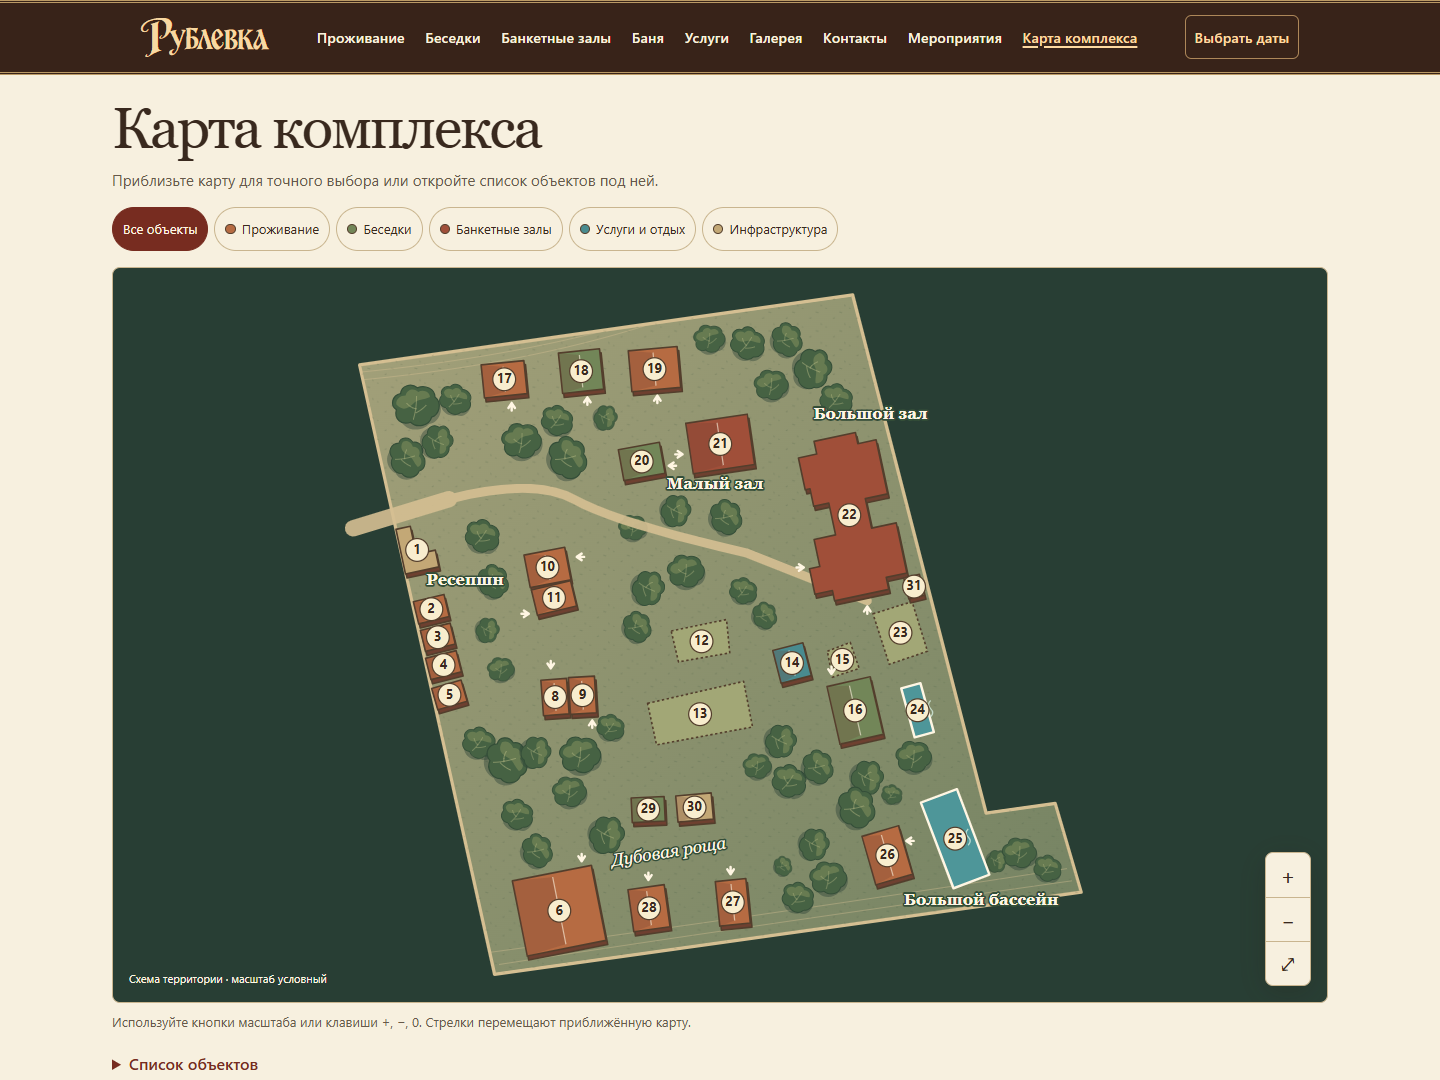
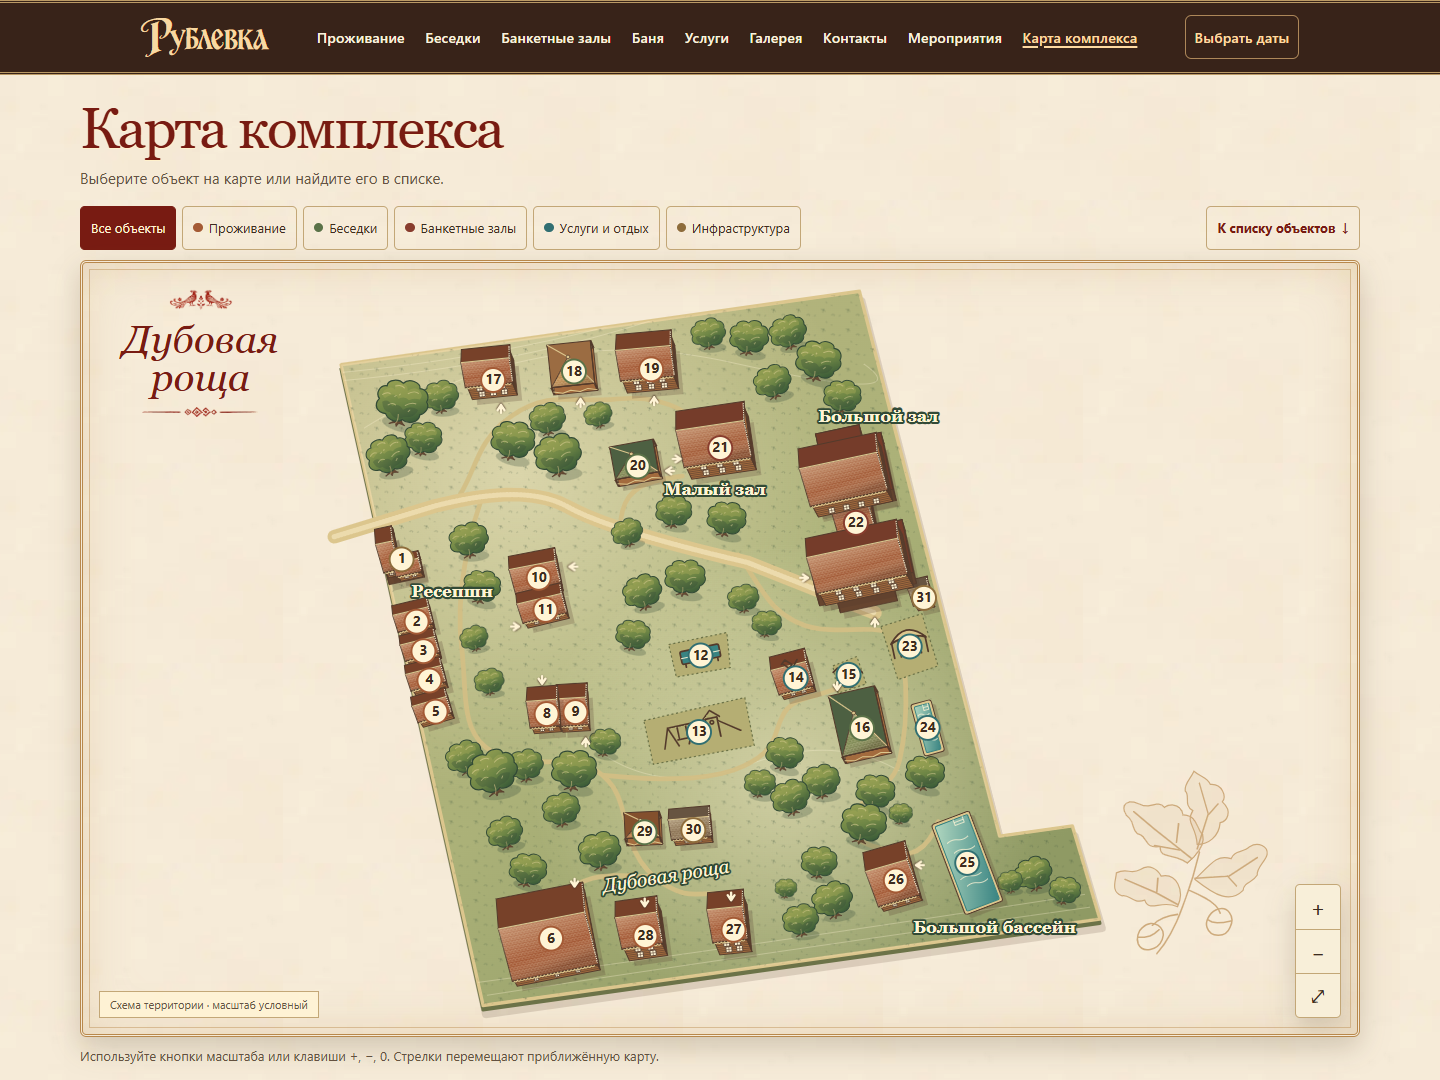
docs: publish updated oak grove browser review

diff --git a/docs/territory-map/review/README.md b/docs/territory-map/review/README.md
@@ -1,6 +1,14 @@
-# Браузерная проверка карты «Дубовая роща»
+# Браузерная проверка «Дубовой рощи» после доработки №8.1
 
 Скриншоты сделаны в Chromium на production-сборке. Размер окна на компьютере — 1440 × 1080, на телефоне — 390 × 844. На ширине 320 px дополнительно проверили отсутствие горизонтальной прокрутки страницы.
+
+## Сравнение с референсом
+
+[Согласованное направление «Дубовая роща»](00-approved-grove-reference.png) задало тёплые дорожки, отдельные кроны, деревянную архитектуру и чистые номерные метки. В [первой сборке](https://github.com/qbitstudioai-ai/rublevka_site/blob/1d1237c34b7adce7400179e7ea3e8fbfb9295ade/docs/territory-map/review/01-desktop-overview.png) эти элементы читались плоско и терялись в тёмных полях. На новом развороте видны кровли, стены, бревенчатая фактура и резные карнизы. У зала №22 выделены два крыла и соединяющий объём. Светлый фон, рамка и дубовая ветвь поддерживают стиль книги.
+
+На телефоне сцена плотнее, цифры и зоны касания крупнее, а кнопка над картой открывает список с полноразмерными строками. В общем виде один палец прокручивает страницу. Приближение двумя пальцами и перетаскивание приближённой карты работают в сцене.
+
+## Состояния после доработки
 
 | Состояние | Скриншот |
 | --- | --- |
@@ -13,6 +21,8 @@
 | Фильтр беседок на телефоне | [07-mobile-gazebos.png](07-mobile-gazebos.png) |
 | Приближение и перетаскивание | [08-zoom.png](08-zoom.png) |
 | Подсветка зала при наведении | [09-highlight.png](09-highlight.png) |
-| Страница после перехода из карточки | [10-section-destination.png](10-section-destination.png) |
+| Страница после перехода из карточки и декодирования фото зала | [10-section-destination.png](10-section-destination.png) |
 
-Дополнительно проверены клавиатурное открытие карточки, возврат к видимой строке списка, панорамирование к маркеру при фокусе, масштабирование двумя пальцами и переход из книги. Ошибок в консоли браузера нет. В HTML присутствуют заголовок, canonical, структурированные данные, все 30 объектов и 16 отмеченных входов.
+Проверены клавиатурное открытие карточки, возврат к видимой строке списка, панорамирование к маркеру при фокусе, переходы из карты и книги. Сравнение разметки подтвердило совпадение 30 контуров, центров меток и 16 стрелок с предыдущей версией. В HTML присутствуют заголовок, canonical и структурированные данные. Ошибок в консоли браузера нет.
+
+Фото на странице банкетных залов загружается и декодируется после перехода из карточки. Кадр №10 сделан после `img.decode()`.
